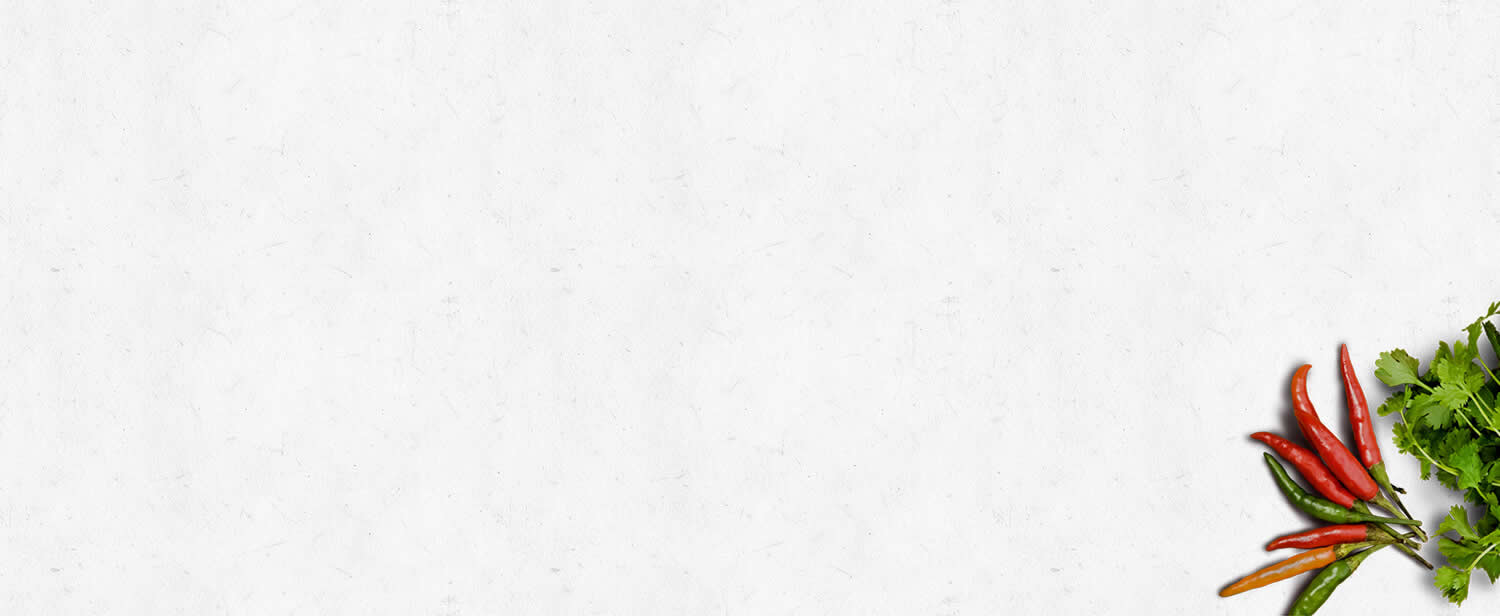
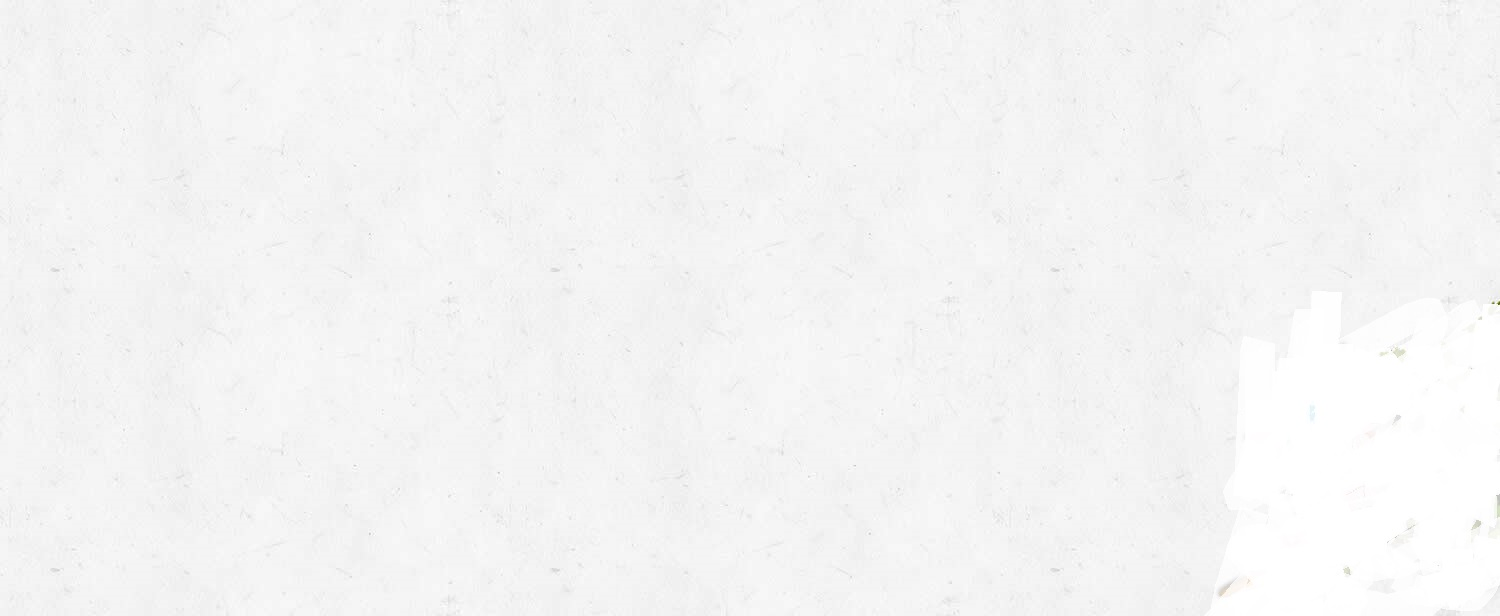
Add demo disclaimer and update branding
- Add demonstration purpose disclaimer to slider section
- Update contact information with new phone numbers and address
- Add new café images (logo, interior photos, products)
- Update CSS styling for disclaimer display
- Add .gitignore to exclude local configuration

Changed region(s): [[0.7973, 0.4935, 1.0, 1.0]]

diff --git a/index.html b/index.html
@@ -6,7 +6,7 @@
     <head>
         <meta charset="utf-8">
         <meta http-equiv="X-UA-Compatible" content="IE=edge,chrome=1">
-        <title>花蓮美食餐廳 - 正宗台灣料理</title>
+        <title>花蓮美食餐廳 - 木日青拾</title>
         <meta name="description" content="花蓮在地美食餐廳，提供道地台灣料理、牛肉麵、滷肉飯、珍珠奶茶等特色美食">
         <meta name="viewport" content="width=device-width, initial-scale=1">
         <link rel="apple-touch-icon" href="apple-touch-icon.png">
@@ -42,7 +42,7 @@
                         <div class="col-md-5 col-md-offset-3 col-sm-12 text-right">
                             <div class="call_us_text">
 								<a href=""><i class="fa fa-clock-o"></i> 營業時間 11:30-21:00</a>
-								<a href=""><i class="fa fa-phone"></i>03-8123-4567</a>
+								<a href=""><i class="fa fa-phone"></i>03-8888-8888</a>
 							</div>
                         </div>
 
@@ -74,7 +74,7 @@
                                         <span class="icon-bar"></span>
                                         <span class="icon-bar"></span>
                                     </button>x
-                                    <a class="navbar-brand our_logo" href="#"><img src="assets/images/logo.png" alt="" /></a>
+                                    <a class="navbar-brand our_logo" href="#"><img src="assets/images/logo-cafe.png" alt="logo-木日青拾" /></a>
                                 </div>
 
                                 <!-- Collect the nav links, forms, and other content for toggling -->
@@ -104,9 +104,12 @@
                         <div class="main_slider text-center">
                             <div class="col-md-12">
                                 <div class="main_slider_content wow zoomIn" data-wow-duration="1s">
-                                    <h1>道地台灣好味道</h1>
+                                    <h1>木日青拾</h1>
                                     <p>堅持使用花蓮在地新鮮食材，傳承道地台灣料理的精髓，每一口都是家鄉的味道。從經典牛肉麵到香濃滷肉飯，讓您品嚐最純粹的台灣美食文化。</p>
                                     <button href="" class="btn-lg">立即訂位</button>
+                                    <div class="demo-disclaimer">
+                                        <p><small>* 本網站僅供展示與教學用途，所有內容包含圖片、文字等資訊皆為示範性質，不涉及實際商業用途。</small></p>
+                                    </div>
                                 </div>
                             </div>
                         </div>
@@ -122,7 +125,7 @@
                     <div class="abouts_content">
                         <div class="col-md-6">
                             <div class="single_abouts_text text-center wow slideInLeft" data-wow-duration="1s">
-                                <img src="assets/images/ab.png" alt="" />
+                                <img src="assets/images/cashier.jpg" alt="" />
                             </div>
                         </div>
 
@@ -340,12 +343,12 @@
                                 <h3>聯絡資訊</h3>
 
                                 <div class="single_widget_info">
-                                    <p>花蓮市中山路123號
+                                    <p>花蓮市中山路123456號
 
                                         <span>花蓮縣花蓮市</span>
                                         <span>近花蓮火車站</span>
-                                        <span class="phone_email">電話: 03-8123-4567</span>
-                                        <span>手機: 0912-345-678</span>
+                                        <span class="phone_email">電話: 88888888</span>
+                                        <span>手機: 098888888</span>
                                         <span>Email: info@hualien-food.com.tw</span></p>
                                 </div>
 
@@ -414,7 +417,7 @@
                 <div class="row">
                     <div class="col-sm-12">
                         <div class="copyright wow zoomIn" data-wow-duration="3s">
-							<p>© 2026 花蓮美食餐廳 版權所有 | 地址: 花蓮縣花蓮市中山路123號 | 電話: 03-8123-4567</p>
+							<p>© 2026 花蓮美食餐廳 版權所有 | 地址: 花蓮縣花蓮市中山路1234567號 | 電話: 888888888</p>
 						</div>
                     </div>
                 </div>

diff --git a/assets/css/style.css b/assets/css/style.css
@@ -710,7 +710,7 @@ font-size: 5rem;
 
 /* Features section css */
 .features{
-	background:url(../images/ftbg.jpg) center center no-repeat;
+	background:url(../images/full-frame.jpg) center center no-repeat;
 	-moz-background-size: cover;
 	-webkit-background-size: cover;
 	-o-background-size: cover;
@@ -829,7 +829,7 @@ font-size: 5rem;
 }
 
 .single_pakeg_one{
-	background:url(../images/newsone.jpg) left center no-repeat;
+	background:url(../images/espresso.jpg) left center no-repeat;
 	padding:30px;
 	overflow:hidden;
 	margin-top:60px;
@@ -879,7 +879,7 @@ font-size: 5rem;
 /* Mobail Apps Section css */
 
 .mobailapps{
-	background:url(../images/appsbg.jpg) top center no-repeat scroll;
+	background:url(../images/main-door.jpg) top center no-repeat scroll;
 	-moz-background-size: cover;
 	-webkit-background-size: cover;
 	-o-background-size: cover;
@@ -1031,4 +1031,27 @@ font-size: 5rem;
 	margin-left: -6px;
 	text-decoration: none;
 
+}
+
+/*==========================================
+DEMO DISCLAIMER
+==========================================*/
+
+.demo-disclaimer {
+	margin-top: 30px;
+	padding: 15px 20px;
+	background-color: rgba(0, 0, 0, 0.3);
+	border-radius: 5px;
+	display: inline-block;
+}
+
+.demo-disclaimer p {
+	margin: 0;
+	color: #ffffff;
+	opacity: 0.9;
+}
+
+.demo-disclaimer small {
+	font-size: 13px;
+	line-height: 1.6;
 }
